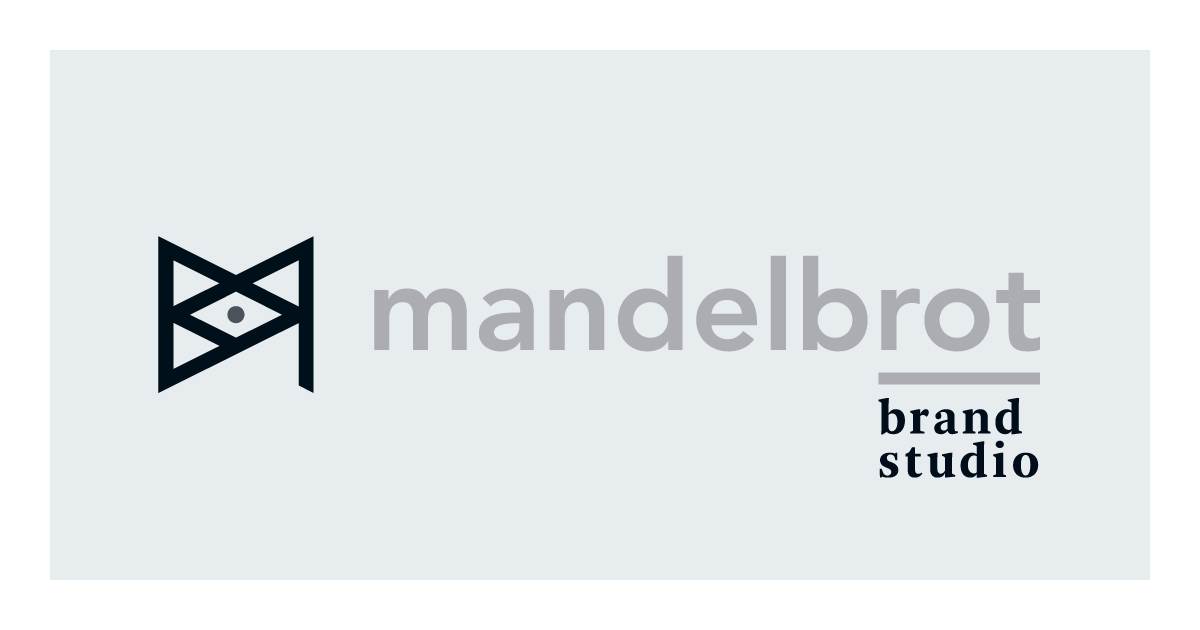
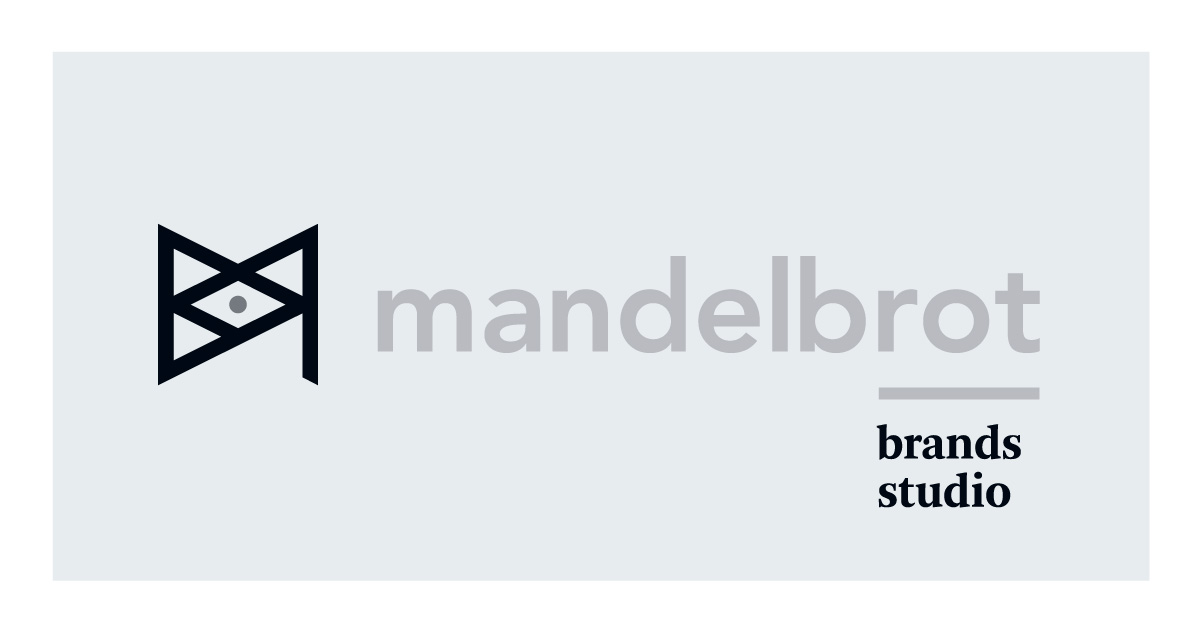
Brands studio spelling error fixed, rotation background made lite

Changed region(s): [[0.3083, 0.4222, 0.8017, 0.573], [0.7092, 0.573, 0.8633, 0.8143], [0.1233, 0.3619, 0.2775, 0.6333]]

diff --git a/index.html b/index.html
@@ -3,7 +3,7 @@
     <head>
         <meta charset="utf-8">
         <meta http-equiv="x-ua-compatible" content="ie=edge">
-        <title>MANDELBROT | Brand Studio</title>
+        <title>MANDELBROT | Brands Studio</title>
         <meta name="description" content="">
         <meta name="viewport" content="width=device-width, initial-scale=1">
         <link rel="shortcut icon" type="image/png" href="favicon.png"/>
@@ -39,41 +39,25 @@
                 <div id="setBG">
                     <div id="firstInnerSet">
                         <div class="topSet setStyle">
-                            <div class="topSet setStyle">
-                            </div>
 
-                            <div class="bottomSet setStyle">
-                            </div>
 
                         </div>
 
 
                         <div class="rightSet setStyle">
-                            <div class="topSet setStyle">
-                            </div>
 
-                            <div class="bottomSet setStyle">
-                            </div>
 
                         </div>
 
 
                         <div class="bottomSet setStyle">
-                            <div class="topSet setStyle">
-                            </div>
 
-                            <div class="bottomSet setStyle">
-                            </div>
 
                         </div>
 
 
                         <div class="leftSet setStyle">
-                            <div class="topSet setStyle">
-                            </div>
 
-                            <div class="bottomSet setStyle">
-                            </div>
 
                         </div>
 
@@ -108,7 +92,7 @@
 
 
         <footer>
-            <a href="mailto:estudio@mandelbrot.mx">estudio@mandelbrot.mx</a>
+            <a href="mailto:studio@mandelbrot.mx">studio@mandelbrot.mx</a>
         </footer>
 
 

diff --git a/css/main.css b/css/main.css
@@ -121,10 +121,10 @@ html, *{
         }
             #setBG #firstInnerSet{
                 position: absolute;
-                width: 90vw;
-                height: 90vw;
+                width: 60vw;
+                height: 60vw;
                 border-radius: 50%;
-                border: 1px dashed #cccdd2;
+                border: 1px solid #cccdd2;
                 opacity: .9;
                 /*background-color: rgba(255,255,0,.2);*/
                 top: 50%; left: 50%;
@@ -253,7 +253,7 @@ html, *{
                     position: absolute;
                     width: 61.8%;
                     height: 61.8%;
-                    border: 1px dashed #cccdd2;
+                    border: 1px solid #cccdd2;
                     opacity: .9;
                     /*background-color: rgba(255,255,0,.2);*/
                     border-radius: 0%;
